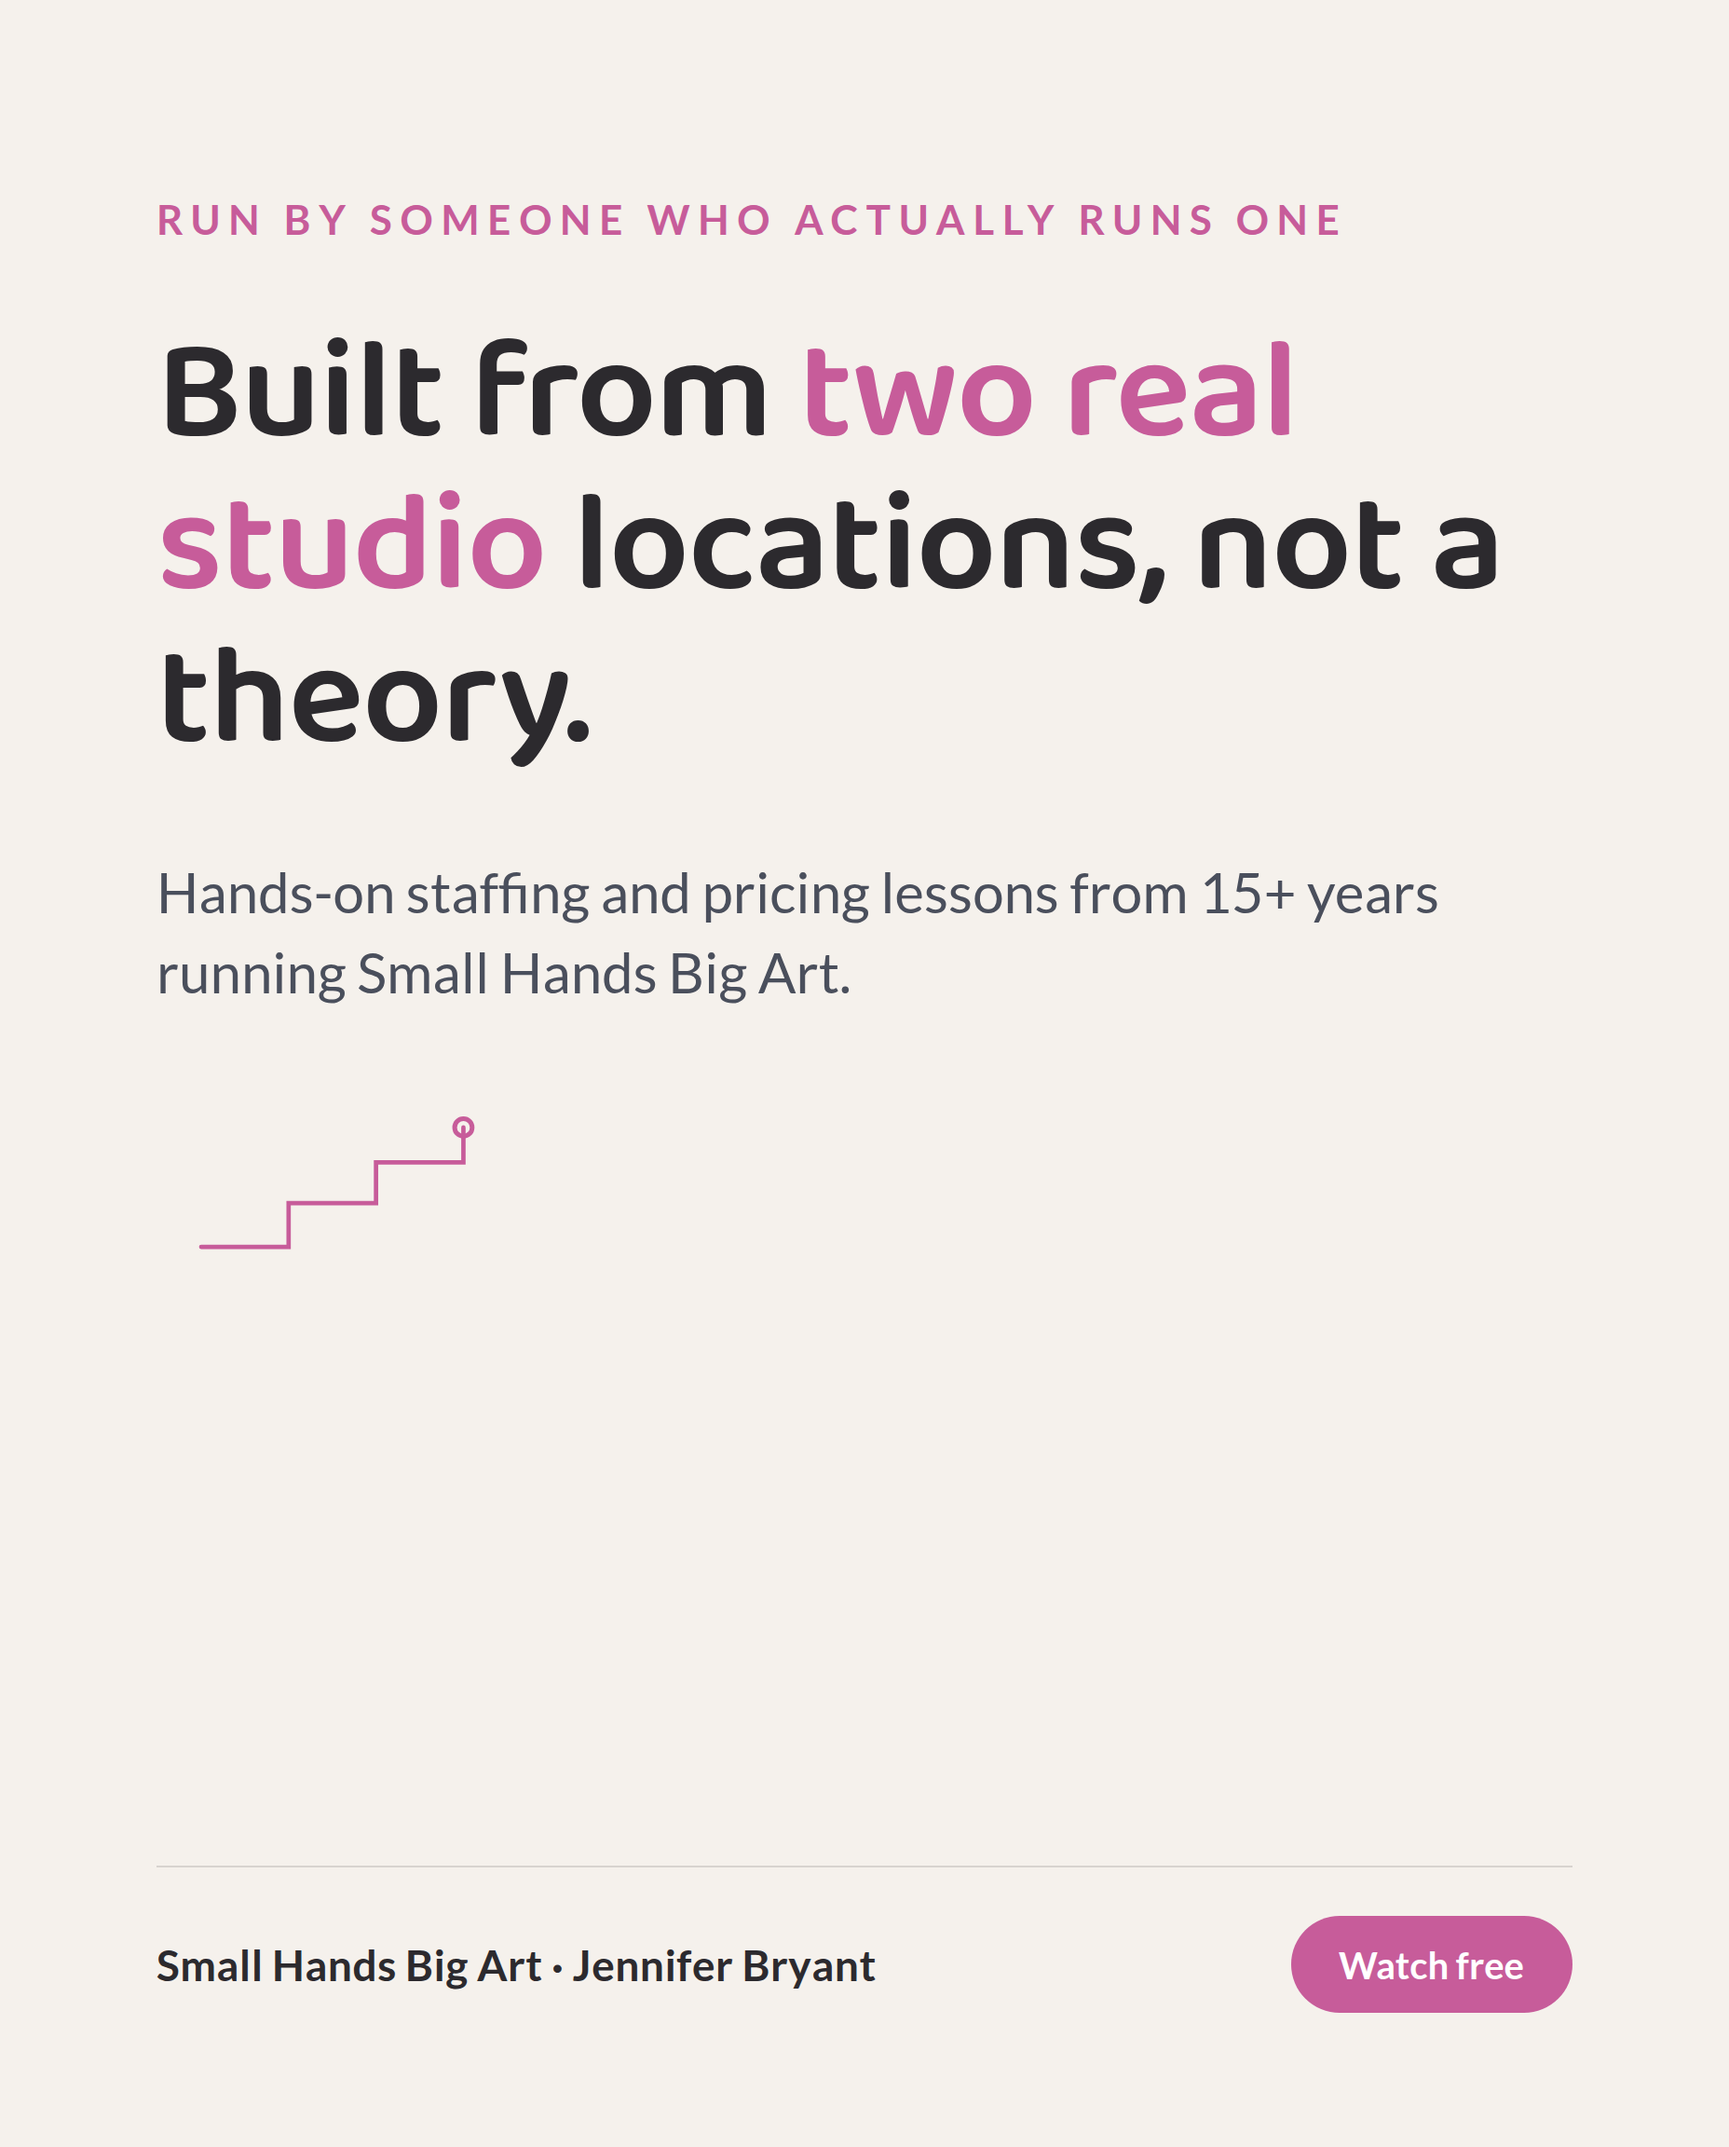
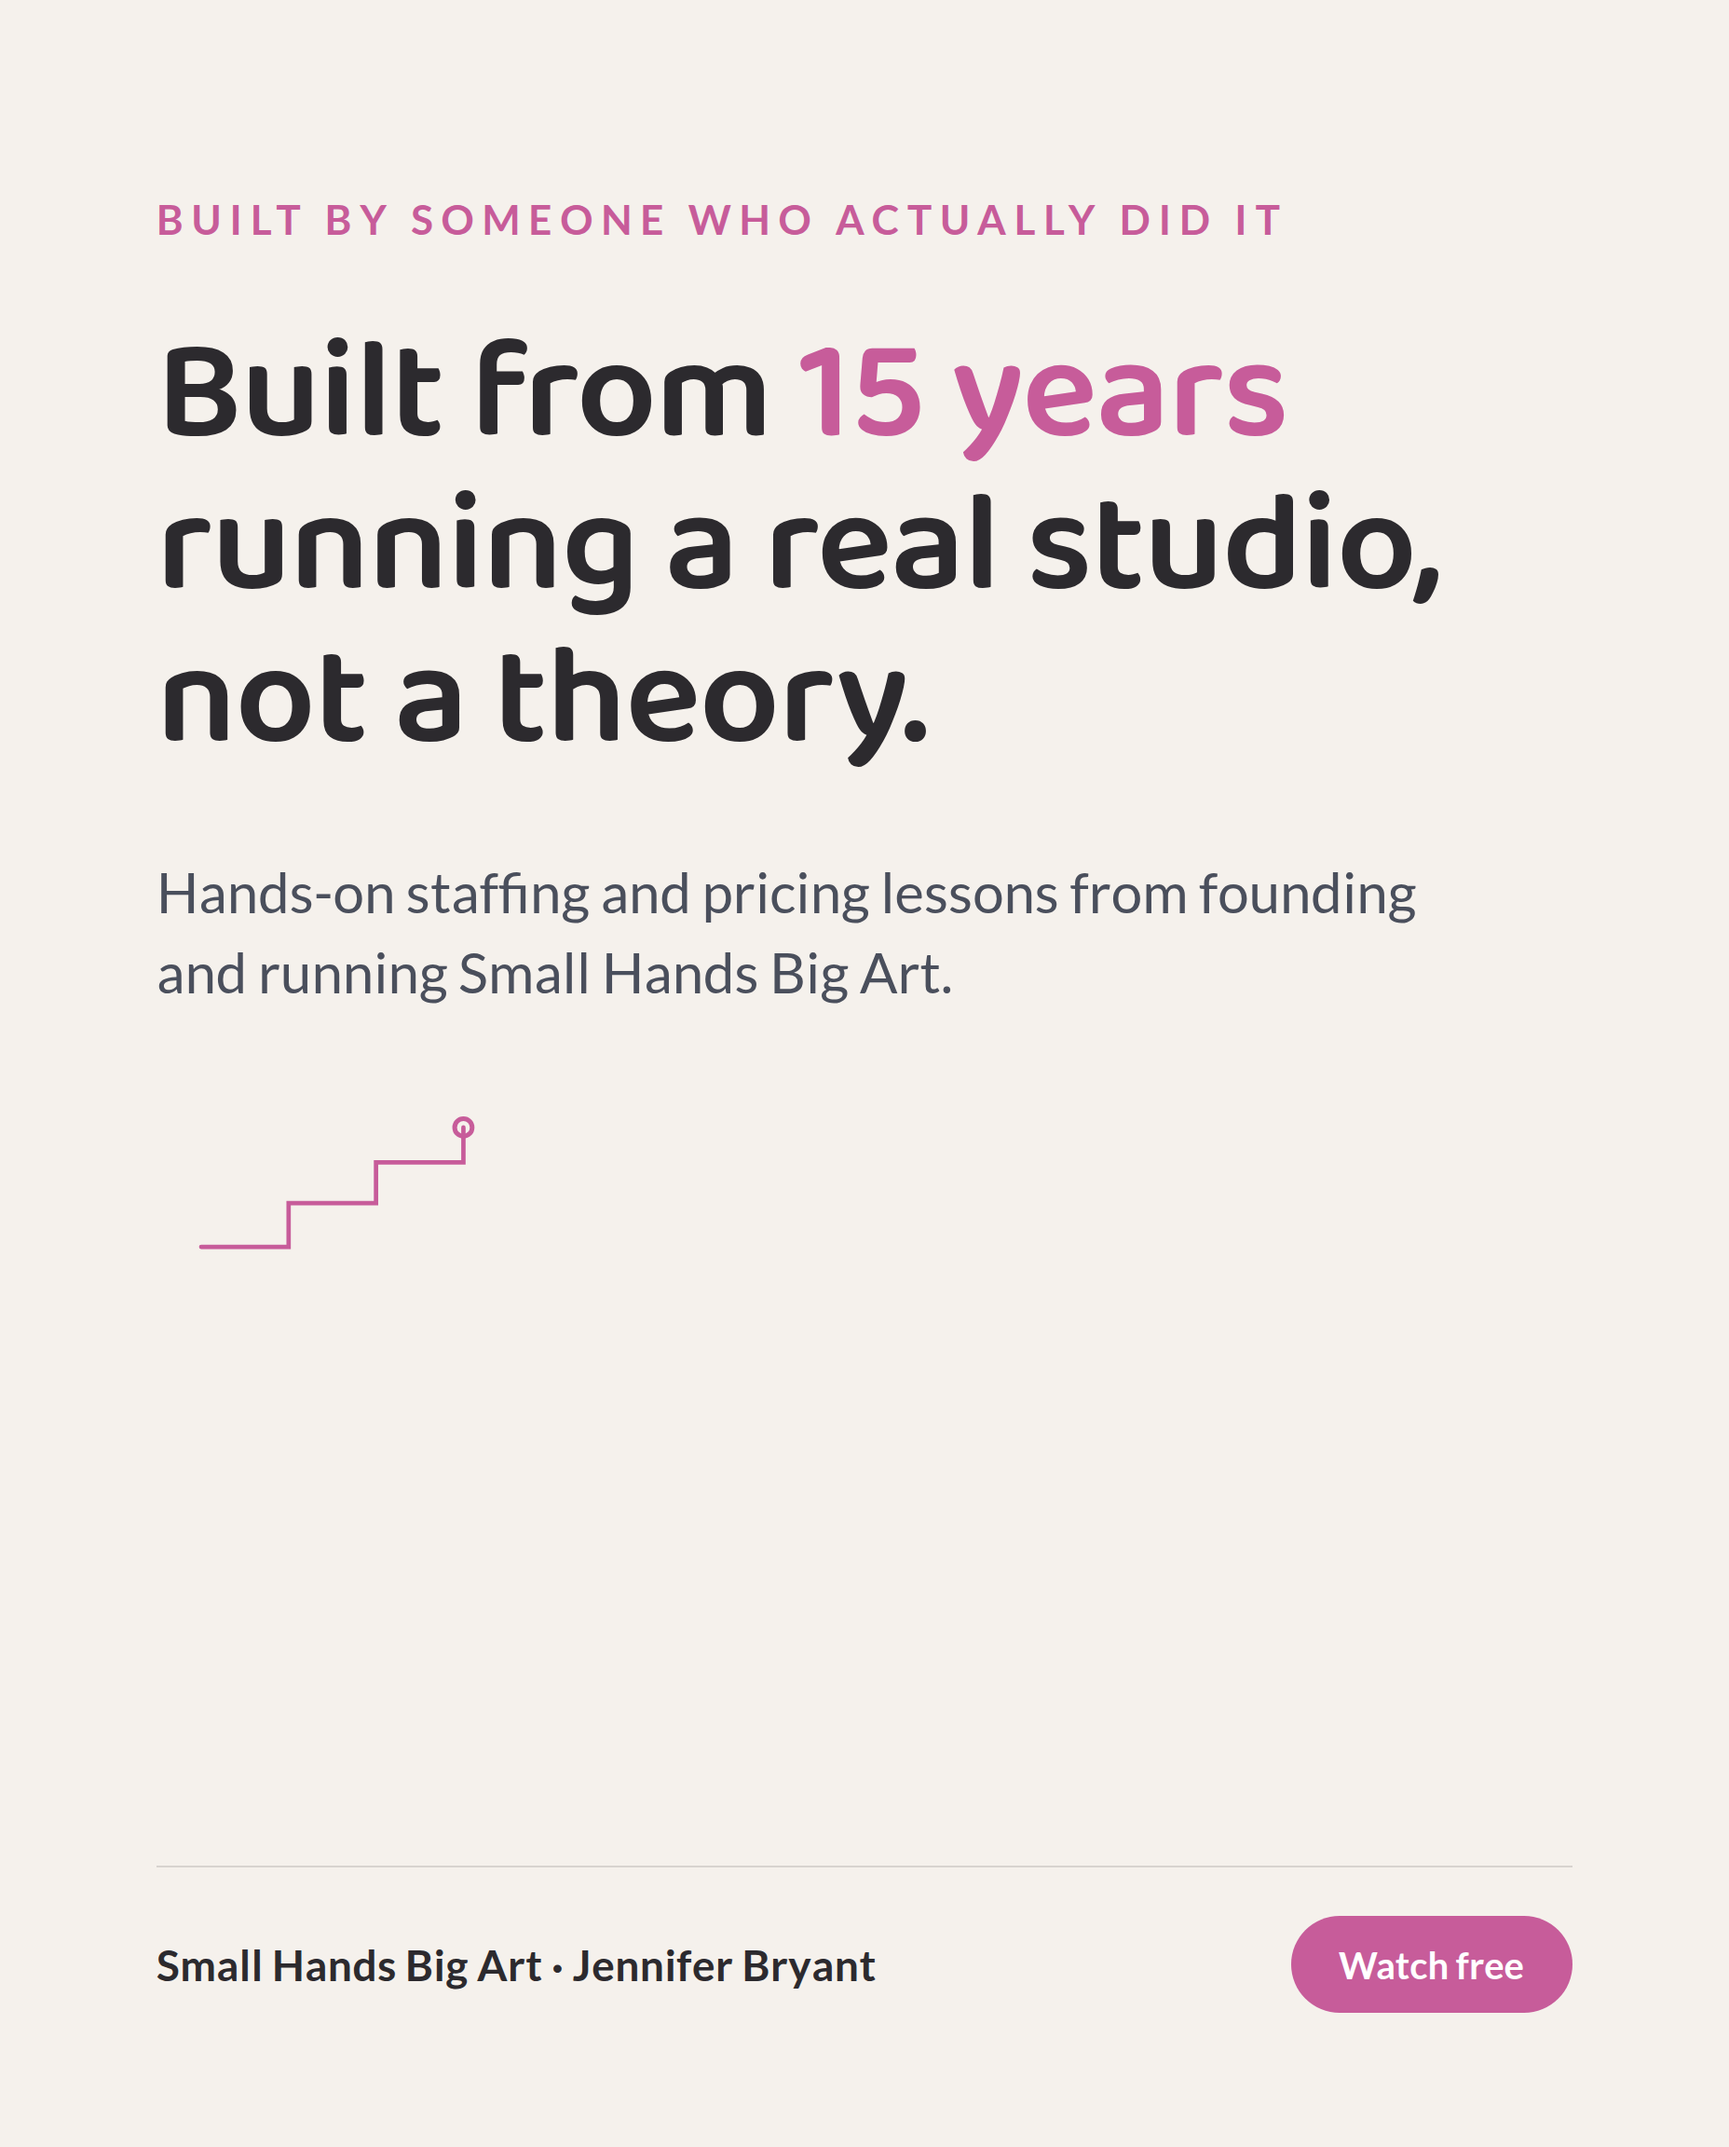
showcase: jennifer-bryant

diff --git a/jennifer-bryant/index.html b/jennifer-bryant/index.html
@@ -71,8 +71,8 @@
     <strong>For Jennifer Bryant</strong> &nbsp;&middot;&nbsp; from Dustin at 780 Marketing &nbsp;&middot;&nbsp; August 2026
   </div>
 
-  <h1>What Two Locations Taught Me About Staffing (And Charging What You're Worth)</h1>
-  <p class="framing">Here's what I mentioned in my email: the masterclass, the numbers, and the auction data that didn't fit in the message. You already built the hard part: fifteen-plus years running Small Hands Big Art at two locations, the staffing and culture work, the pricing for classes, camps, parties, and memberships. What you don't have is a system to bring in art studio owners who have never heard of you and convert them into Monthly Mentorship customers. This is that system.</p>
+  <h1>What 15 Years Running a Studio Taught Me About Staffing (And Charging What You're Worth)</h1>
+  <p class="framing">Here's what I mentioned in my email: the masterclass, the numbers, and the auction data that didn't fit in the message. You already built the hard part: fifteen-plus years founding and running Small Hands Big Art, the staffing and culture work, the pricing for classes, camps, parties, and memberships. What you don't have is a system to bring in art studio owners who have never heard of you and convert them into Monthly Mentorship customers. This is that system.</p>
 
   <div class="section">
     <div class="section-label">The masterclass, already built</div>
@@ -105,29 +105,28 @@
         <tr><td>Show-up rate</td><td>30%</td><td>40%</td></tr>
         <tr><td>Live attendees</td><td>25</td><td>60</td></tr>
         <tr><td>Discovery-call booking rate</td><td>10%</td><td>15%</td></tr>
-        <tr><td>Calls booked / month</td><td>2 to 3</td><td>9</td></tr>
+        <tr><td>Calls booked / month</td><td>~2.5</td><td>~9</td></tr>
         <tr><td>Close rate on warmed calls</td><td>20%</td><td>30%</td></tr>
-        <tr><td>New Mentorship clients / month</td><td>1</td><td>2 to 3</td></tr>
-        <tr class="hl"><td>Est. new monthly revenue</td><td>$900</td><td>$1,800 to $2,700</td></tr>
+        <tr><td>New Mentorship clients / month</td><td>~0.5</td><td>~2.7</td></tr>
+        <tr class="hl"><td>Est. new monthly revenue (at the $900/mo starting price)</td><td>~$450</td><td>~$2,430</td></tr>
       </tbody>
     </table>
-    <p class="fn">Conservative assumes one new client enrolling in the $900/month Monthly Mentorship. Moderate assumes 2 to 3 new Mentorship clients at the same $900/month price. Every enrollment is recurring, so it stacks month over month rather than resetting; actual mix would calibrate to your real numbers after the first 2 to 3 live sessions.</p>
+    <p class="fn">Monthly Mentorship starts at $900/month, so this uses that starting price, not a guaranteed flat number; your real intake mix may run higher. New clients are recurring revenue, not one-time, so this stacks with each month's cohort rather than resetting to zero, assuming typical retention for an ongoing coaching relationship (not confirmed for your specific renewal rate). Actual mix would calibrate to your real numbers after the first 2 to 3 live sessions.</p>
   </div>
 
   <div class="section">
-    <div class="section-label">How the niche is converting cold traffic</div>
-    <h2>Who's advertising right now</h2>
-    <p>As far as we can find, nobody teaching art studio owners how to run their business is paying to reach that audience on Meta right now, including Small Hands Big Art's own page.</p>
+    <div class="section-label">Who is buying the art studio owner's attention</div>
+    <h2>The lane, checked</h2>
+    <p>What I checked in the Meta ad auction around art-studio-business coaching specifically, checked live this month.</p>
     <table>
       <thead>
-        <tr><th>Business</th><th>Focus</th><th>Meta ads</th></tr>
+        <tr><th>Search</th><th>Result</th></tr>
       </thead>
       <tbody>
-        <tr class="you"><td>Small Hands Big Art / Jennifer Bryant</td><td>Art studio consulting + Monthly Mentorship</td><td class="not-running">None found</td></tr>
-        <tr><td>Everyone else advertising near this audience</td><td>Unrelated businesses (wellness, home services, entertainment, and more)</td><td class="not-running">Not a fit for this audience</td></tr>
+        <tr class="you"><td>Your site, smallhandsbigart.com</td><td class="not-running">No ads found</td></tr>
       </tbody>
     </table>
-    <p class="fn">This comes from a live check of your own ad activity plus the wider advertising happening around art-studio-owner keywords right now. It's a strong signal, not a guarantee: a lead-form or Messenger ad wouldn't show up here. You have the credibility (15+ years, two real locations, priced consulting tiers) and, as far as we can tell, you're the only one in this comparison not putting any paid traffic behind it. A monthly masterclass is the conversion event between the ad click and the discovery call.</p>
+    <p class="fn">As far as I can find, nobody is running paid traffic into art-studio-business coaching under your name or brand right now, including you. This is a strong signal, not proof of zero: lead-form and Messenger ads carry no outbound link and stay invisible to this kind of check. Either way, the lane in front of your consulting is open.</p>
   </div>
 
   <div class="section calendly-section">

diff --git a/jennifer-bryant/deck.html b/jennifer-bryant/deck.html
@@ -4,7 +4,7 @@
 <meta charset="UTF-8">
 <meta name="viewport" content="width=device-width, initial-scale=1.0">
 <meta name="robots" content="noindex,nofollow">
-<title>What Two Locations Taught Me About Staffing · Jennifer Bryant</title>
+<title>What 15 Years Running a Studio Taught Me About Staffing · Jennifer Bryant</title>
 <link rel="preconnect" href="https://fonts.googleapis.com">
 <link rel="preconnect" href="https://fonts.gstatic.com" crossorigin>
 <link href="https://fonts.googleapis.com/css2?family=Baloo+2:wght@500;600;700;800&family=Lato:wght@400;700&display=swap" rel="stylesheet">
@@ -80,7 +80,7 @@
 
 <script>
 const S = [
- {t:'title',title:"What Two Locations Taught Me About Staffing (And Charging What You’re Worth)",sub:'A masterclass for art studio owners on building a team and a price list that let the business run without you standing in every room.',brand:true,arc:'title'},
+ {t:'title',title:"What 15 Years Running a Studio Taught Me About Staffing (And Charging What You’re Worth)",sub:'A masterclass for art studio owners on building a team and a price list that let the business run without you standing in every room.',brand:true,arc:'title'},
  {t:'normal',k:'Who this is for',title:'You opened a studio because you love teaching kids to make things, not because you love running payroll.',body:'Most art studio owners get good at the art side fast. The business side, hiring the right people, pricing a class so it actually covers what it costs to run, gets figured out by trial and error, usually the hard way.'},
  {t:'dark',title:"A studio that only runs when you’re in the room is not a business yet. It’s a job with your name on the sign."},
 
@@ -95,9 +95,9 @@ const S = [
  {t:'normal',k:'Where startup planning fits in',title:'Getting the location, the initial class list, and the business structure right before you open saves years of expensive correction later.',body:'A lot of what looks like a staffing or pricing problem two years in was actually decided on day one: the wrong location for the target family, or a curriculum built before anyone tested what parents would actually pay for.'},
  {t:'dark',title:'A second location does not fix a first location that was never built to run without you.'},
 
- {t:'section',idx:'Part Three',title:'What This Actually Looks Like at Two Locations'},
+ {t:'section',idx:'Part Three',title:'What This Actually Looks Like In A Real Studio'},
  {t:'normal',k:'What changes first',title:"Most owners start with the three things costing them the most: who is on the schedule, what each offering is actually priced at, and where the owner’s time goes.",body:'A single focused session maps your top three issues and an action plan built around your studio specifically, not a generic top-ten list every studio owner gets handed.'},
- {t:'normal',k:'Why Jennifer Bryant',title:'Fifteen-plus years running a real, profitable, two-location studio, not a course built by someone who has never run one.',body:'Jennifer left a career in law and finance to open Small Hands Big Art in Charlotte in 2009, then opened a second location in Fort Mill in 2018. She is teaching from decisions she made and lived with: staffing two locations, pricing classes, camps, parties, and memberships, and planning a studio from a blank slate.'},
+ {t:'normal',k:'Why Jennifer Bryant',title:'Fifteen-plus years founding and running a real, profitable studio, not a course built by someone who has never run one.',body:'Jennifer left a career in the financial/legal world to open Small Hands Big Art in Charlotte in 2009 and ran it for over 15 years before transitioning ownership to new operators in early 2026 to focus full-time on consulting. She is teaching from decisions she made and lived with: staffing, pricing classes, camps, parties, and memberships, and planning a studio from a blank slate. She continues to advise the studio in an ongoing capacity.'},
 
  {t:'section',idx:'Your Next Step',title:'Build the Team and the Price List'},
  {t:'normal',k:'How the mentorship works',title:'From a single focused session up to ongoing monthly mentorship.',body:'A 90-Minute Deep Dive works through one specific challenge. The 3-Session Startup Pack covers the foundational business setup for a new studio. Monthly Mentorship pairs two calls a month with ongoing email support for owners working through staffing, pricing, and growth decisions as they come up.'},
